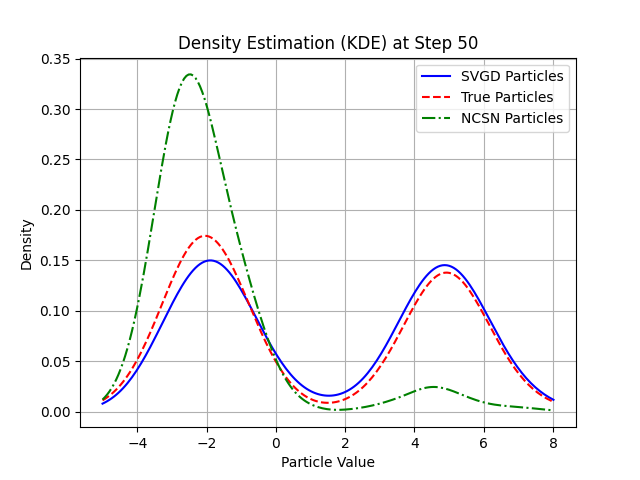
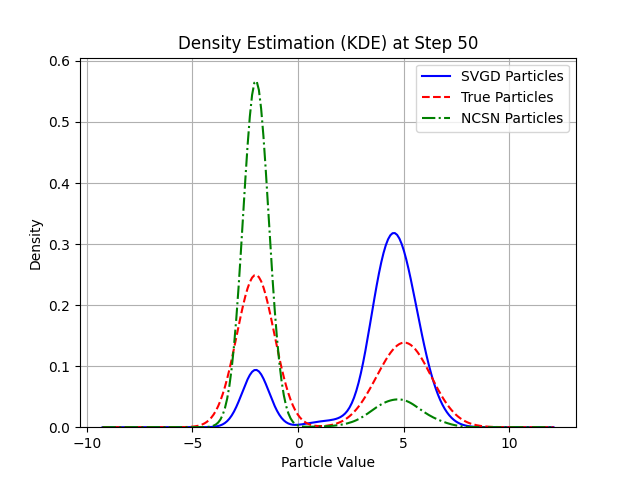
FIX: kde plot axis

diff --git a/main.py b/main.py
@@ -6,6 +6,7 @@ from torch.distributions import Normal, Categorical, Independent
 from torch.distributions.mixture_same_family import MixtureSameFamily
 from models import SVGD, NCSN, MLP2D
 from utils import kl_divergence_kde, plot_kde
+from scipy.stats import gaussian_kde
 
 # Set device to GPU if available
 device = 'cuda' if torch.cuda.is_available() else 'mps' if torch.backends.mps.is_available() else 'cpu'
@@ -86,8 +87,33 @@ plt.grid(True, linestyle="--", alpha=0.6)
 plt.savefig('Figures/KL_divergence_plot.png')
 plt.close()
 
+
 # Detach and plot KDE for every 10th iteration
 hist_SVGD = hist_SVGD.detach().numpy()
 hist_NCSN = hist_NCSN.detach().numpy()
+
+# Compute global min/max for consistent axis range across all plots
+all_particles = np.concatenate([
+    hist_SVGD.reshape(-1, 1),
+    hist_NCSN.reshape(-1, 1),
+    true_samples[:, 0].reshape(-1, 1)
+], axis=0)
+
+x_min, x_max = np.min(all_particles), np.max(all_particles)
+
+# Compute global y-axis range by evaluating densities at a common set of x-values
+x_vals_for_kde = np.linspace(x_min, x_max, 200)
+kde_particles = gaussian_kde(hist_SVGD.flatten())
+kde_true_particles = gaussian_kde(true_samples[:, 0])
+kde_extra_particles = gaussian_kde(hist_NCSN.flatten())
+
+y_vals_particles = kde_particles(x_vals_for_kde)
+y_vals_true_particles = kde_true_particles(x_vals_for_kde)
+y_vals_extra_particles = kde_extra_particles(x_vals_for_kde)
+
+y_min, y_max = min(np.min(y_vals_particles), np.min(y_vals_true_particles), np.min(y_vals_extra_particles)), \
+               max(np.max(y_vals_particles), np.max(y_vals_true_particles), np.max(y_vals_extra_particles))
+
+# Plot for every 10th iteration
 for i in range(0, hist_SVGD.shape[0], 10):
-    plot_kde(hist_SVGD[i, :, 0], hist_NCSN[i, :, 0], true_samples[:, 0], i)
+    plot_kde(hist_SVGD[i, :, 0], hist_NCSN[i, :, 0], true_samples[:, 0], i, x_min, x_max, y_min, y_max)

diff --git a/utils.py b/utils.py
@@ -19,19 +19,16 @@ def kl_divergence_kde(p_samples, q_samples, bandwidth=0.1):
     return torch.mean(log_p - log_q)  # KL divergence
 
 
-def plot_kde(f_particles, f_extra_particles, f_true_particles, step, save_dir='Figures'):
+def plot_kde(f_particles, f_extra_particles, f_true_particles, step, x_min, x_max, y_min, y_max, save_dir='Figures'):
     """Plots the KDE estimation of given particles and saves the plot in the 'Figures' folder."""
 
-    # Convert PyTorch tensors to NumPy arrays
+    # Convert PyTorch tensors to NumPy arrays (not needed if already NumPy)
     f_particles = f_particles
     f_true_particles = f_true_particles
     f_extra_particles = f_extra_particles
 
-    # Define grid for KDE evaluation
-    x_min = min(f_particles.min(), f_true_particles.min(), f_extra_particles.min())
-    x_max = max(f_particles.max(), f_true_particles.max(), f_extra_particles.max())
+    # Define grid for KDE evaluation using the provided global min/max
     x_vals = np.linspace(x_min, x_max, 200)
-    print(type(f_particles))
 
     # Estimate densities using KDE
     kde_particles = gaussian_kde(f_particles)
@@ -49,6 +46,9 @@ def plot_kde(f_particles, f_extra_particles, f_true_particles, step, save_dir='F
     plt.ylabel("Density")
     plt.legend()
     plt.grid(True)
+
+    # Set consistent y-axis range
+    plt.ylim(y_min, y_max)
 
     # Create the 'Figures' directory if it does not exist
     os.makedirs(save_dir, exist_ok=True)
